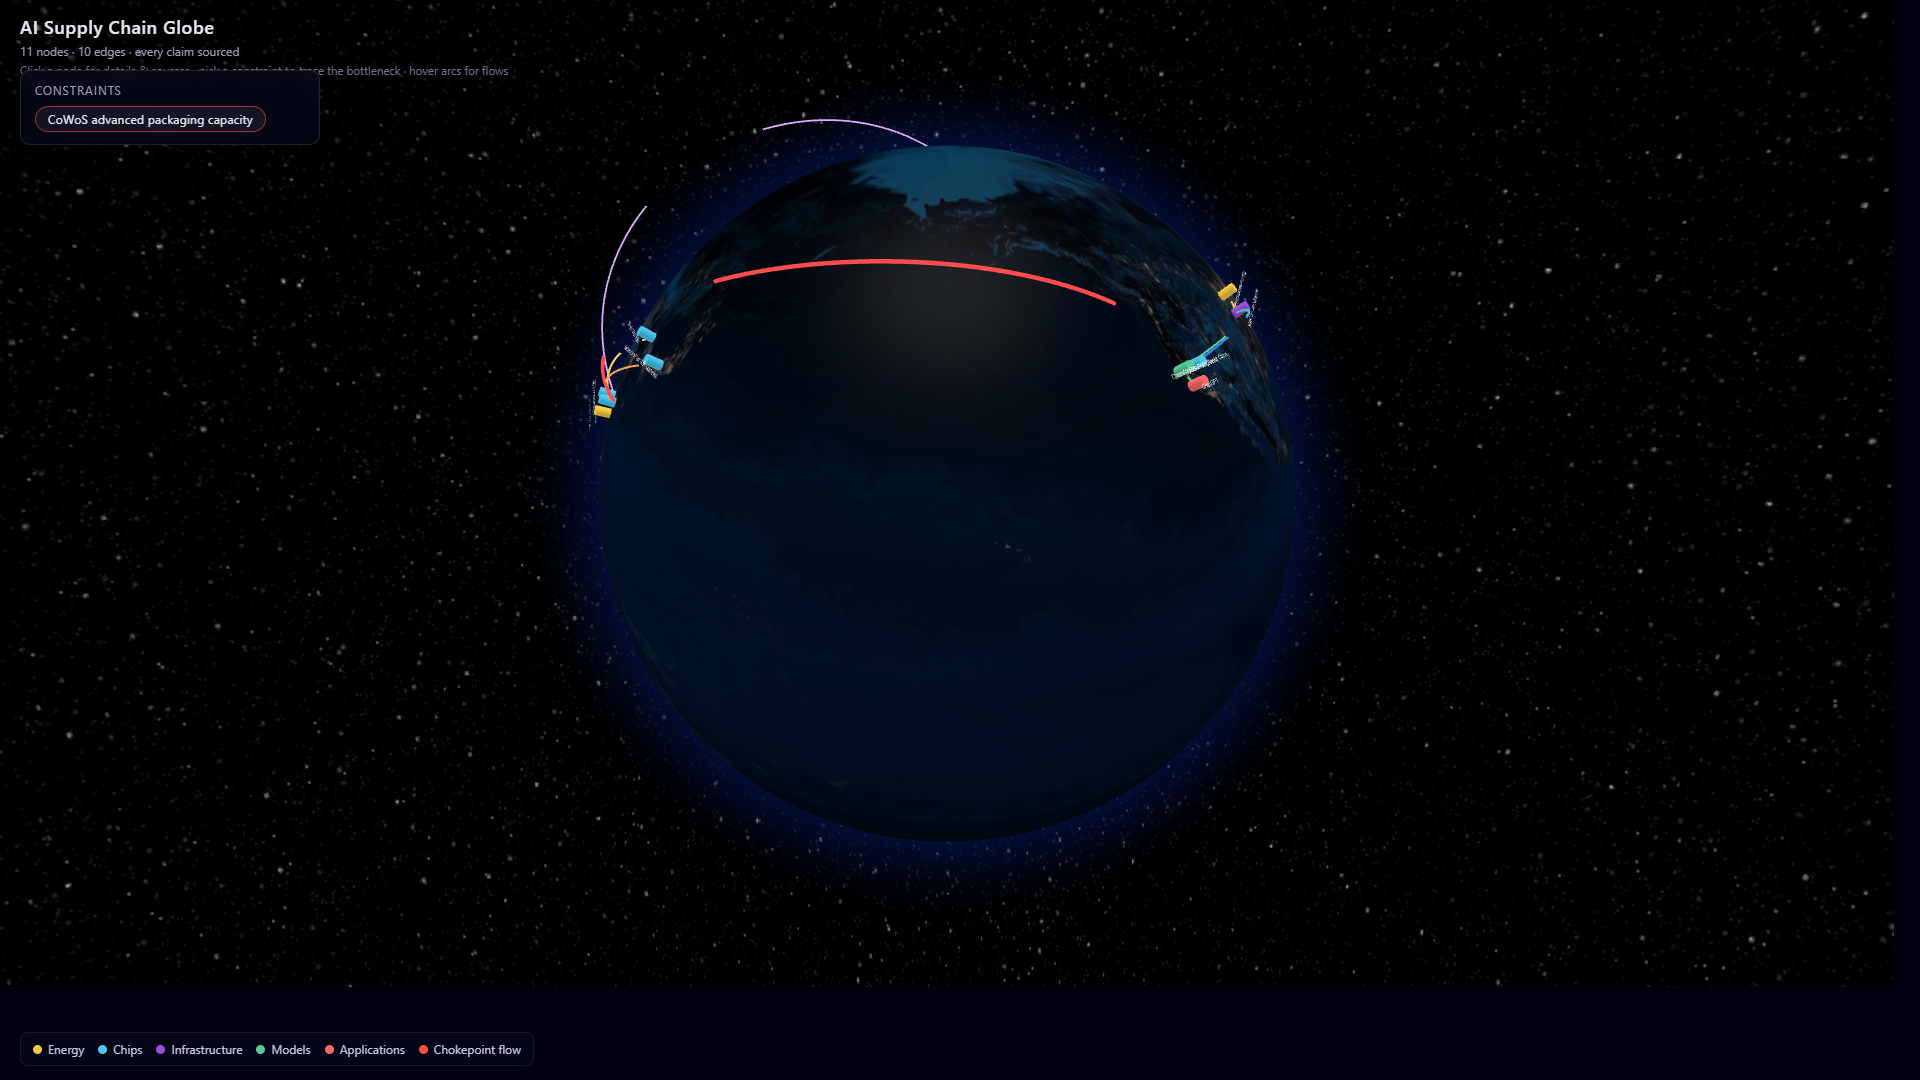
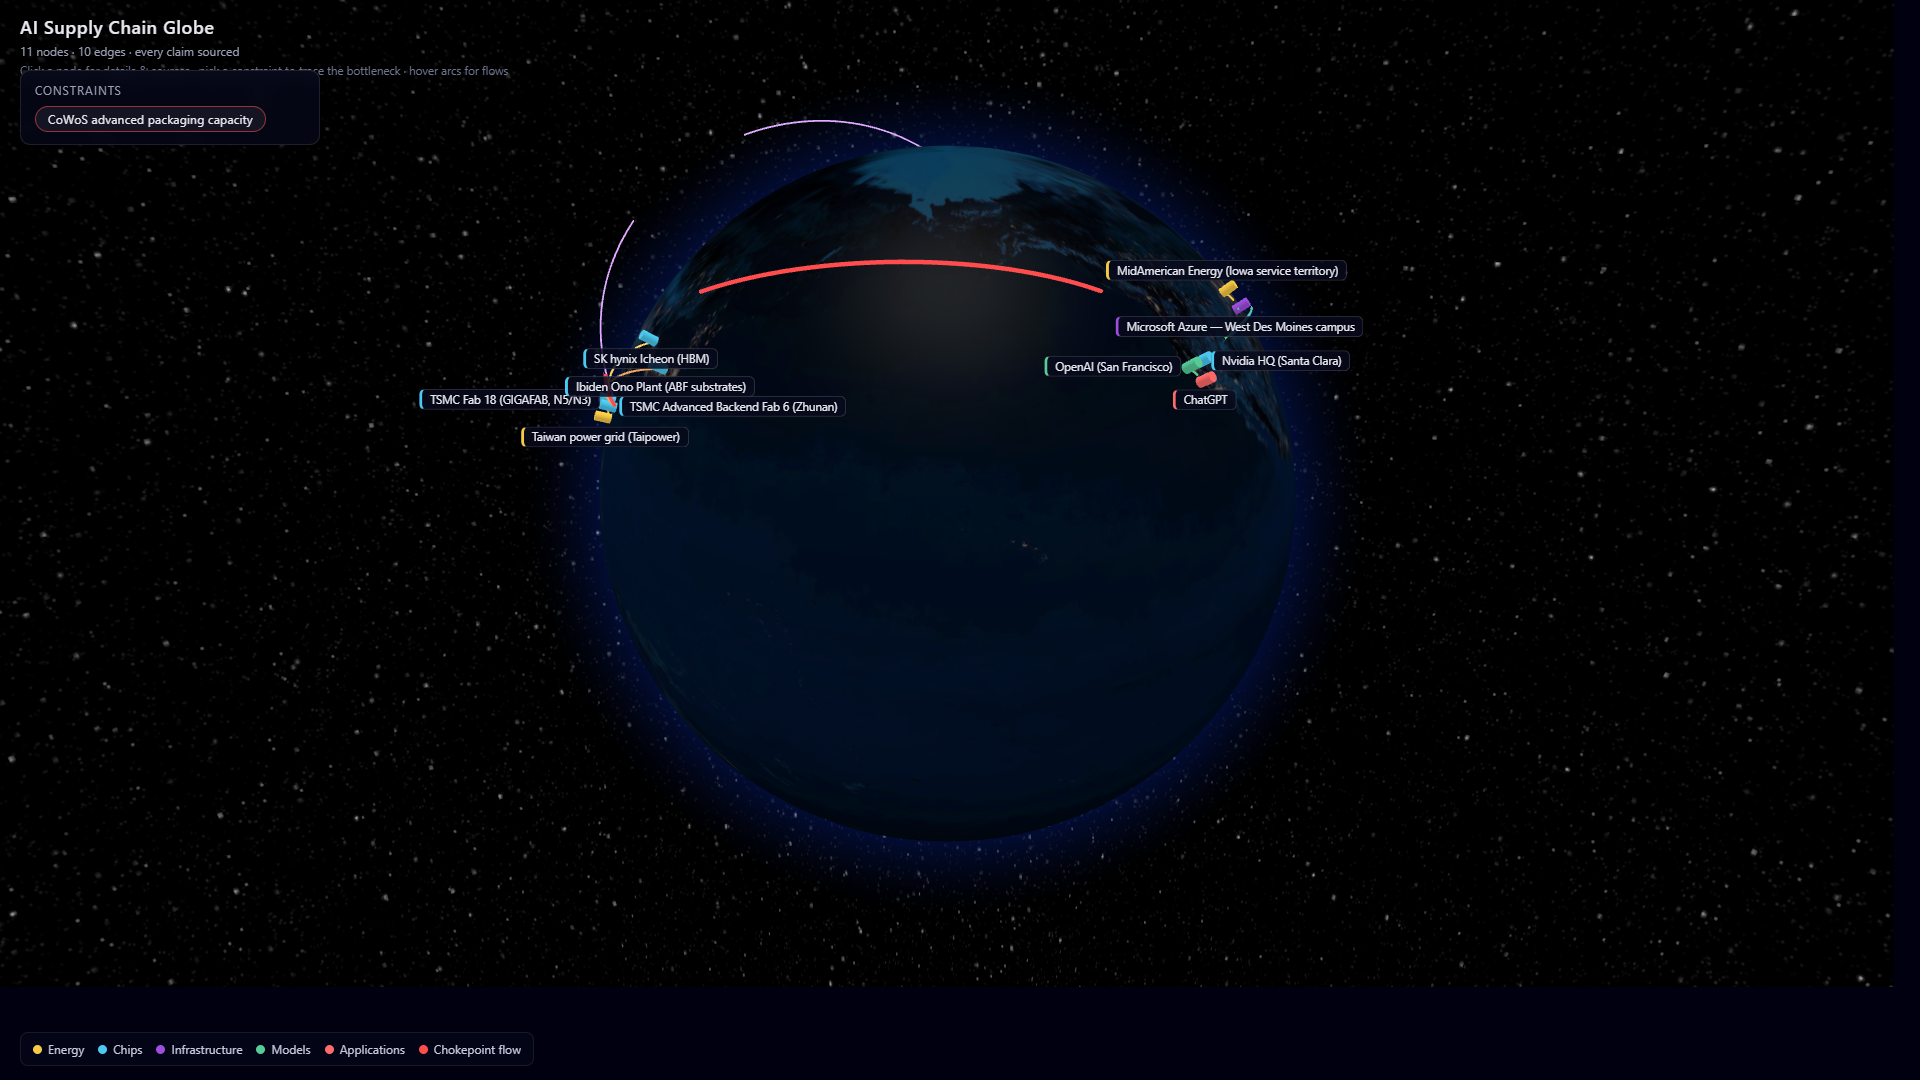
Non-overlapping HTML label boxes + bring vault current to GPT-5.5 era
Labels (owner feedback round 2):
- Replace globe.gl text sprites (no collision handling) with HTML label
  boxes via htmlElementsData: bordered pills, layer-colored edge,
  clickable, hidden when behind the globe, dimmed during constraint
  highlight
- Cluster members fan their labels radially outward from the cluster
  centroid so boxes cannot stack; standalone nodes label below the dot
- Root-caused and fixed a globe crash: two three.js copies (0.169 ours,
  0.184 globe.gl's) broke the CSS2D layer. Aligned on three@0.184 -
  bundle also shrank ~600KB

Currency (2025-2026 era):
- ChatGPT: capacity now 800M weekly active users (Altman, DevDay,
  TechCrunch 2025-10-06); GPT-5.5 Instant default model (TechCrunch
  2026-05-05); body updated with GPT-5/5.5 demand ratchet
- OpenAI: Introducing GPT-5.5 (OpenAI, 2026-04-23); October 2025
  Microsoft restructuring (27% stake, $250B Azure commitment, ROFR ended);
  body explains Iowa edge as the sourced GPT-4-era anchor and flags
  multi-site Stargate-era training geography as the top post-v1 expansion
- Azure->OpenAI edge: notes and source now bound the exclusivity claim
  to its actual period (ended Oct 2025)

Screenshots recaptured.

diff --git a/frontend/src/components/GlobeView.tsx b/frontend/src/components/GlobeView.tsx
@@ -20,6 +20,9 @@ interface PointDatum {
   node: GraphNode;
   lat: number;
   lng: number;
+  /** Ring angle (radians) for cluster members; null for standalone nodes. */
+  angle: number | null;
+  dimmed?: boolean;
 }
 
 interface ArcDatum {
@@ -45,7 +48,9 @@ function escapeHtml(s: string): string {
  * shared centroid so each dot is legible and clickable. True coordinates
  * remain untouched in the vault and in the side panel.
  */
-function displacedPositions(nodes: GraphNode[]): Map<string, { lat: number; lng: number }> {
+function displacedPositions(
+  nodes: GraphNode[]
+): Map<string, { lat: number; lng: number; angle: number | null }> {
   const CLUSTER_DEG = 2.2;
   const RING_DEG = 1.6;
   const groups: GraphNode[][] = [];
@@ -61,11 +66,11 @@ function displacedPositions(nodes: GraphNode[]): Map<string, { lat: number; lng:
     else groups.push([node]);
   }
 
-  const positions = new Map<string, { lat: number; lng: number }>();
+  const positions = new Map<string, { lat: number; lng: number; angle: number | null }>();
   for (const group of groups) {
     if (group.length === 1) {
       const n = group[0];
-      positions.set(n.id, { lat: n.location.lat, lng: n.location.lon });
+      positions.set(n.id, { lat: n.location.lat, lng: n.location.lon, angle: null });
       continue;
     }
     const centerLat = group.reduce((s, n) => s + n.location.lat, 0) / group.length;
@@ -76,10 +81,26 @@ function displacedPositions(nodes: GraphNode[]): Map<string, { lat: number; lng:
       positions.set(n.id, {
         lat: centerLat + RING_DEG * Math.sin(angle),
         lng: centerLng + (RING_DEG * Math.cos(angle)) / Math.max(0.3, Math.cos((centerLat * Math.PI) / 180)),
+        angle,
       });
     });
   }
   return positions;
+}
+
+/**
+ * Label boxes extend outward from their cluster centroid (the same
+ * direction the dot was displaced), so labels within a cluster fan away
+ * from each other instead of stacking. Standalone nodes label below.
+ */
+function labelOffsetTransform(angle: number | null): string {
+  if (angle === null) return "translate(-50%, 9px)";
+  const dx = Math.cos(angle);
+  const dy = -Math.sin(angle); // screen y is inverted vs latitude
+  if (dx > 0.45) return "translate(9px, -50%)";
+  if (dx < -0.45) return "translate(calc(-100% - 9px), -50%)";
+  if (dy < 0) return "translate(-50%, calc(-100% - 9px))";
+  return "translate(-50%, 9px)";
 }
 
 /** Great-circle angular distance in degrees. */
@@ -131,6 +152,17 @@ export default function GlobeView({
           ...displayPos.get(node.id)!,
         })),
     [graph, hiddenLayers, displayPos]
+  );
+
+  // Separate identity for label data so highlight changes rebuild the
+  // DOM label boxes with the right dim state.
+  const labelData = useMemo<PointDatum[]>(
+    () =>
+      points.map((p) => ({
+        ...p,
+        dimmed: !!highlight && !highlight.nodes.has(p.node.id),
+      })),
+    [points, highlight]
   );
 
   const nodeById = useMemo(() => {
@@ -235,19 +267,29 @@ export default function GlobeView({
       arcDashAnimateTime={(d: object) => (d as ArcDatum).animTime}
       arcAltitudeAutoScale={0.4}
       arcLabel={(d: object) => (d as ArcDatum).label}
-      labelsData={points}
-      labelLat="lat"
-      labelLng="lng"
-      labelText={(d: object) => (d as PointDatum).node.name}
-      labelSize={0.65}
-      labelDotRadius={0}
-      labelColor={(d: object) => {
-        const { node } = d as PointDatum;
-        if (highlight && !highlight.nodes.has(node.id)) return "rgba(255,255,255,0.2)";
-        return "rgba(255,255,255,0.75)";
+      htmlElementsData={labelData}
+      htmlLat="lat"
+      htmlLng="lng"
+      htmlAltitude={0.015}
+      htmlElement={(d: object) => {
+        const { node, angle, dimmed } = d as PointDatum;
+        const wrap = document.createElement("div");
+        wrap.className = "node-label-wrap";
+        const box = document.createElement("div");
+        box.className = "node-label" + (dimmed ? " dimmed" : "");
+        box.textContent = node.name;
+        box.style.borderLeftColor = LAYER_COLORS[node.layer];
+        box.style.transform = labelOffsetTransform(angle);
+        box.onclick = (ev) => {
+          ev.stopPropagation();
+          onSelect(node.id);
+        };
+        wrap.appendChild(box);
+        return wrap;
       }}
-      labelResolution={2}
-      labelAltitude={0.05}
+      htmlElementVisibilityModifier={(el: HTMLElement, isVisible: boolean) => {
+        el.classList.toggle("behind", !isVisible);
+      }}
     />
   );
 }

diff --git a/frontend/src/index.css b/frontend/src/index.css
@@ -211,6 +211,38 @@ body,
   color: #7ab8ff;
 }
 
+.node-label {
+  position: absolute;
+  left: 0;
+  top: 0;
+  white-space: nowrap;
+  background: rgba(7, 10, 28, 0.84);
+  border: 1px solid rgba(255, 255, 255, 0.16);
+  border-left-width: 3px;
+  border-radius: 6px;
+  padding: 2px 8px;
+  font-size: 11.5px;
+  font-family: "Segoe UI", system-ui, sans-serif;
+  color: #e8e8f0;
+  cursor: pointer;
+  pointer-events: auto;
+  transition: opacity 0.2s, background 0.15s;
+}
+
+.node-label:hover {
+  background: rgba(24, 30, 62, 0.95);
+  border-color: rgba(255, 255, 255, 0.35);
+}
+
+.node-label.dimmed {
+  opacity: 0.22;
+}
+
+.node-label-wrap.behind .node-label {
+  opacity: 0;
+  pointer-events: none;
+}
+
 .tooltip {
   font-size: 0.78rem;
   line-height: 1.45;

diff --git a/vault/nodes/models/openai-hq.md b/vault/nodes/models/openai-hq.md
@@ -26,6 +26,14 @@ sources:
     title: "GPT-4 Architecture, Infrastructure, Training Dataset, Costs, Vision, MoE (SemiAnalysis)"
     date: 2023-07-10
     supports: GPT-4 scale and architecture analysis (independent estimates)
+  - url: https://openai.com/index/introducing-gpt-5-5/
+    title: "Introducing GPT-5.5 (OpenAI)"
+    date: 2026-04-23
+    supports: current frontier model generation (GPT-5.5, April 2026)
+  - url: https://blogs.microsoft.com/blog/2025/10/28/the-next-chapter-of-the-microsoft-openai-partnership/
+    title: "The next chapter of the Microsoft-OpenAI partnership (Microsoft)"
+    date: 2025-10-28
+    supports: restructured compute relationship (27% Microsoft stake, $250B incremental Azure commitment, end of right of first refusal)
 ---
 
 # OpenAI (San Francisco)
@@ -44,6 +52,17 @@ Scale context (SemiAnalysis estimates, not OpenAI disclosures): GPT-4 as a
 demand signal that, multiplied across every frontier lab, is what pulls on
 every upstream node in this graph.
 
-**Reviewer notes:** In M2, the *training cluster* should become its own
-node (sited at the Azure campus) and the *model artifact* (GPT-4) a third,
-per the data model. This single lab node is the walking-skeleton stand-in.
+**Current era (2025-2026):** the model line has advanced GPT-4 (Mar 2023)
+→ GPT-5 (2025) → GPT-5.5 (Apr 2026), and the compute relationship has been
+restructured: under the October 2025 agreement Microsoft holds ~27% of
+OpenAI, OpenAI committed to an incremental $250B of Azure purchases, and
+Microsoft's right of first refusal on OpenAI compute ended — training now
+also flows through non-Azure infrastructure (Stargate sites with Oracle
+and others). The Iowa edge in this graph is the *sourced historical
+anchor* (GPT-4); mapping current multi-site training geography
+(Abilene TX, etc.) is the highest-value post-v1 data expansion.
+
+**Reviewer notes:** The *training cluster* should eventually become its
+own node (sited at the Azure campus) and the *model artifact* (GPT-4) a
+third, per the data model. This single lab node is the walking-skeleton
+stand-in.

diff --git a/vault/nodes/applications/chatgpt.md b/vault/nodes/applications/chatgpt.md
@@ -11,9 +11,9 @@ location:
   region: San Francisco, California
   precision: city
 capacity:
-  value: null
-  unit: null
-  as_of: 2026-Q2
+  value: 800000000
+  unit: weekly_active_users
+  as_of: 2025-10
 status: operational
 constraints: []
 tags: [consumer, chatbot]
@@ -23,6 +23,14 @@ sources:
     date: 2022-11-30
     quote: "We've trained a model called ChatGPT which interacts in a conversational way."
     supports: existence, operator, launch date
+  - url: https://techcrunch.com/2025/10/06/sam-altman-says-chatgpt-has-hit-800m-weekly-active-users/
+    title: "Sam Altman says ChatGPT has hit 800M weekly active users (TechCrunch)"
+    date: 2025-10-06
+    supports: capacity (800M weekly active users, announced at DevDay October 2025)
+  - url: https://techcrunch.com/2026/05/05/openai-releases-gpt-5-5-instant-a-new-default-model-for-chatgpt/
+    title: "OpenAI releases GPT-5.5 Instant, a new default model for ChatGPT (TechCrunch)"
+    date: 2026-05-05
+    supports: current model generation powering the product (GPT-5.5 Instant default since May 2026)
 ---
 
 # ChatGPT
@@ -32,6 +40,12 @@ November 30, 2022 as a "research preview" and the proximate cause of the
 demand shock that propagates backward through this entire graph: model
 scale → infrastructure buildout → accelerator supply → packaging and wafer
 capacity → grid and water constraints. The pull dynamic starts here.
+
+The pull has only grown: 800M weekly active users as of October 2025
+(Altman, DevDay), with the default model upgraded to the GPT-5.5
+generation (GPT-5.5 Instant) in May 2026. Every model generation since
+GPT-4 — GPT-5 (2025), GPT-5.5 (April 2026) — has ratcheted the demand
+signal running backward through this graph.
 
 **Location convention:** products are global, not geographic. By project
 convention, application-layer nodes are anchored at the operator's HQ city

diff --git a/vault/edges/azure-wdm-to-openai.md b/vault/edges/azure-wdm-to-openai.md
@@ -18,7 +18,10 @@ notes: >
   GPT-4 training compute estimate (~2e25 FLOP, stated accurate within a
   factor of five) — an independent research estimate, not a disclosure.
   Substitutability low: Azure was OpenAI's exclusive cloud provider during
-  this period.
+  this period. (That exclusivity has since ended: the October 2025
+  agreement removed Microsoft's right of first refusal, and OpenAI training
+  now also runs on non-Azure infrastructure. This edge records the
+  GPT-4-era flow, which remains the best-sourced model-to-site link.)
 sources:
   - url: https://thehill.com/homenews/ap/ap-technology/ap-artificial-intelligence-technology-behind-chatgpt-was-built-in-iowa-with-a-lot-of-water/
     title: "AP: Artificial intelligence technology behind ChatGPT was built in Iowa — with a lot of water (syndicated)"
@@ -38,6 +41,10 @@ sources:
     title: "GPT-4 Architecture, Infrastructure, Training Dataset, Costs, Vision, MoE (SemiAnalysis)"
     date: 2023-07-10
     supports: training infrastructure analysis (cluster scale, parallelism)
+  - url: https://blogs.microsoft.com/blog/2025/10/28/the-next-chapter-of-the-microsoft-openai-partnership/
+    title: "The next chapter of the Microsoft-OpenAI partnership (Microsoft)"
+    date: 2025-10-28
+    supports: end of Azure exclusivity/right of first refusal (bounds the period this edge describes)
 ---
 
 # azure-west-des-moines → openai-hq
